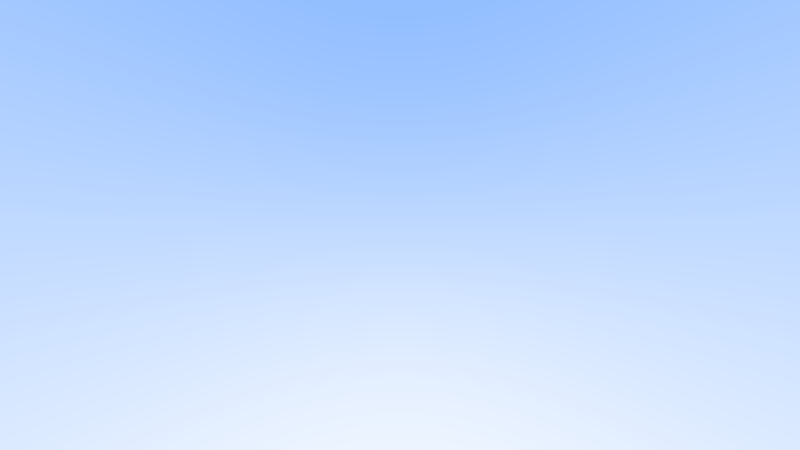
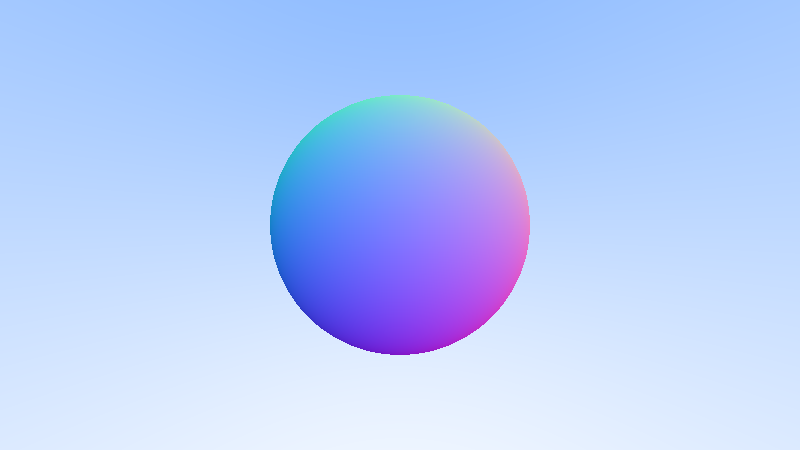
hit sphere

Changed region(s): [[0.3125, 0.1867, 0.6875, 0.8089]]

diff --git a/src/RayTracer.cpp b/src/RayTracer.cpp
@@ -21,8 +21,33 @@ namespace rt
             pixels[pixelIndex + 2] = static_cast<unsigned char>(255.999f * color.b);
         }
 
+        float hitSphere(const glm::vec3 &center, float radius, const Ray &ray)
+        {
+            glm::vec3 oc = center - ray.origin();
+            auto a = glm::dot(ray.direction(), ray.direction());
+            auto b = -2.0f * glm::dot(ray.direction(), oc);
+            auto c = glm::dot(oc, oc) - radius * radius;
+            auto discriminant = b * b - 4 * a * c;
+
+            if (discriminant < 0)
+            {
+                return -1.0f;
+            }
+            else
+            {
+                return (-b - std::sqrt(discriminant)) / (2.0f * a);
+            }
+        }
+
         glm::vec3 rayColor(const Ray &ray)
         {
+            float t = hitSphere(glm::vec3(0, 0, -1), 0.5f, ray);
+            if (t > 0.0f)
+            {
+                glm::vec3 N = glm::normalize(ray.at(t) - glm::vec3(0, 0, -1));
+                return 0.5f * (N + glm::vec3(1, 1, 1));
+            }
+
             glm::vec3 unitDirection = glm::normalize(ray.direction());
             float a = 0.5 * (unitDirection.y + 1.0);
             return (1.0f - a) * glm::vec3(1.0f, 1.0f, 1.0f) + a * glm::vec3(0.5f, 0.7f, 1.0f);